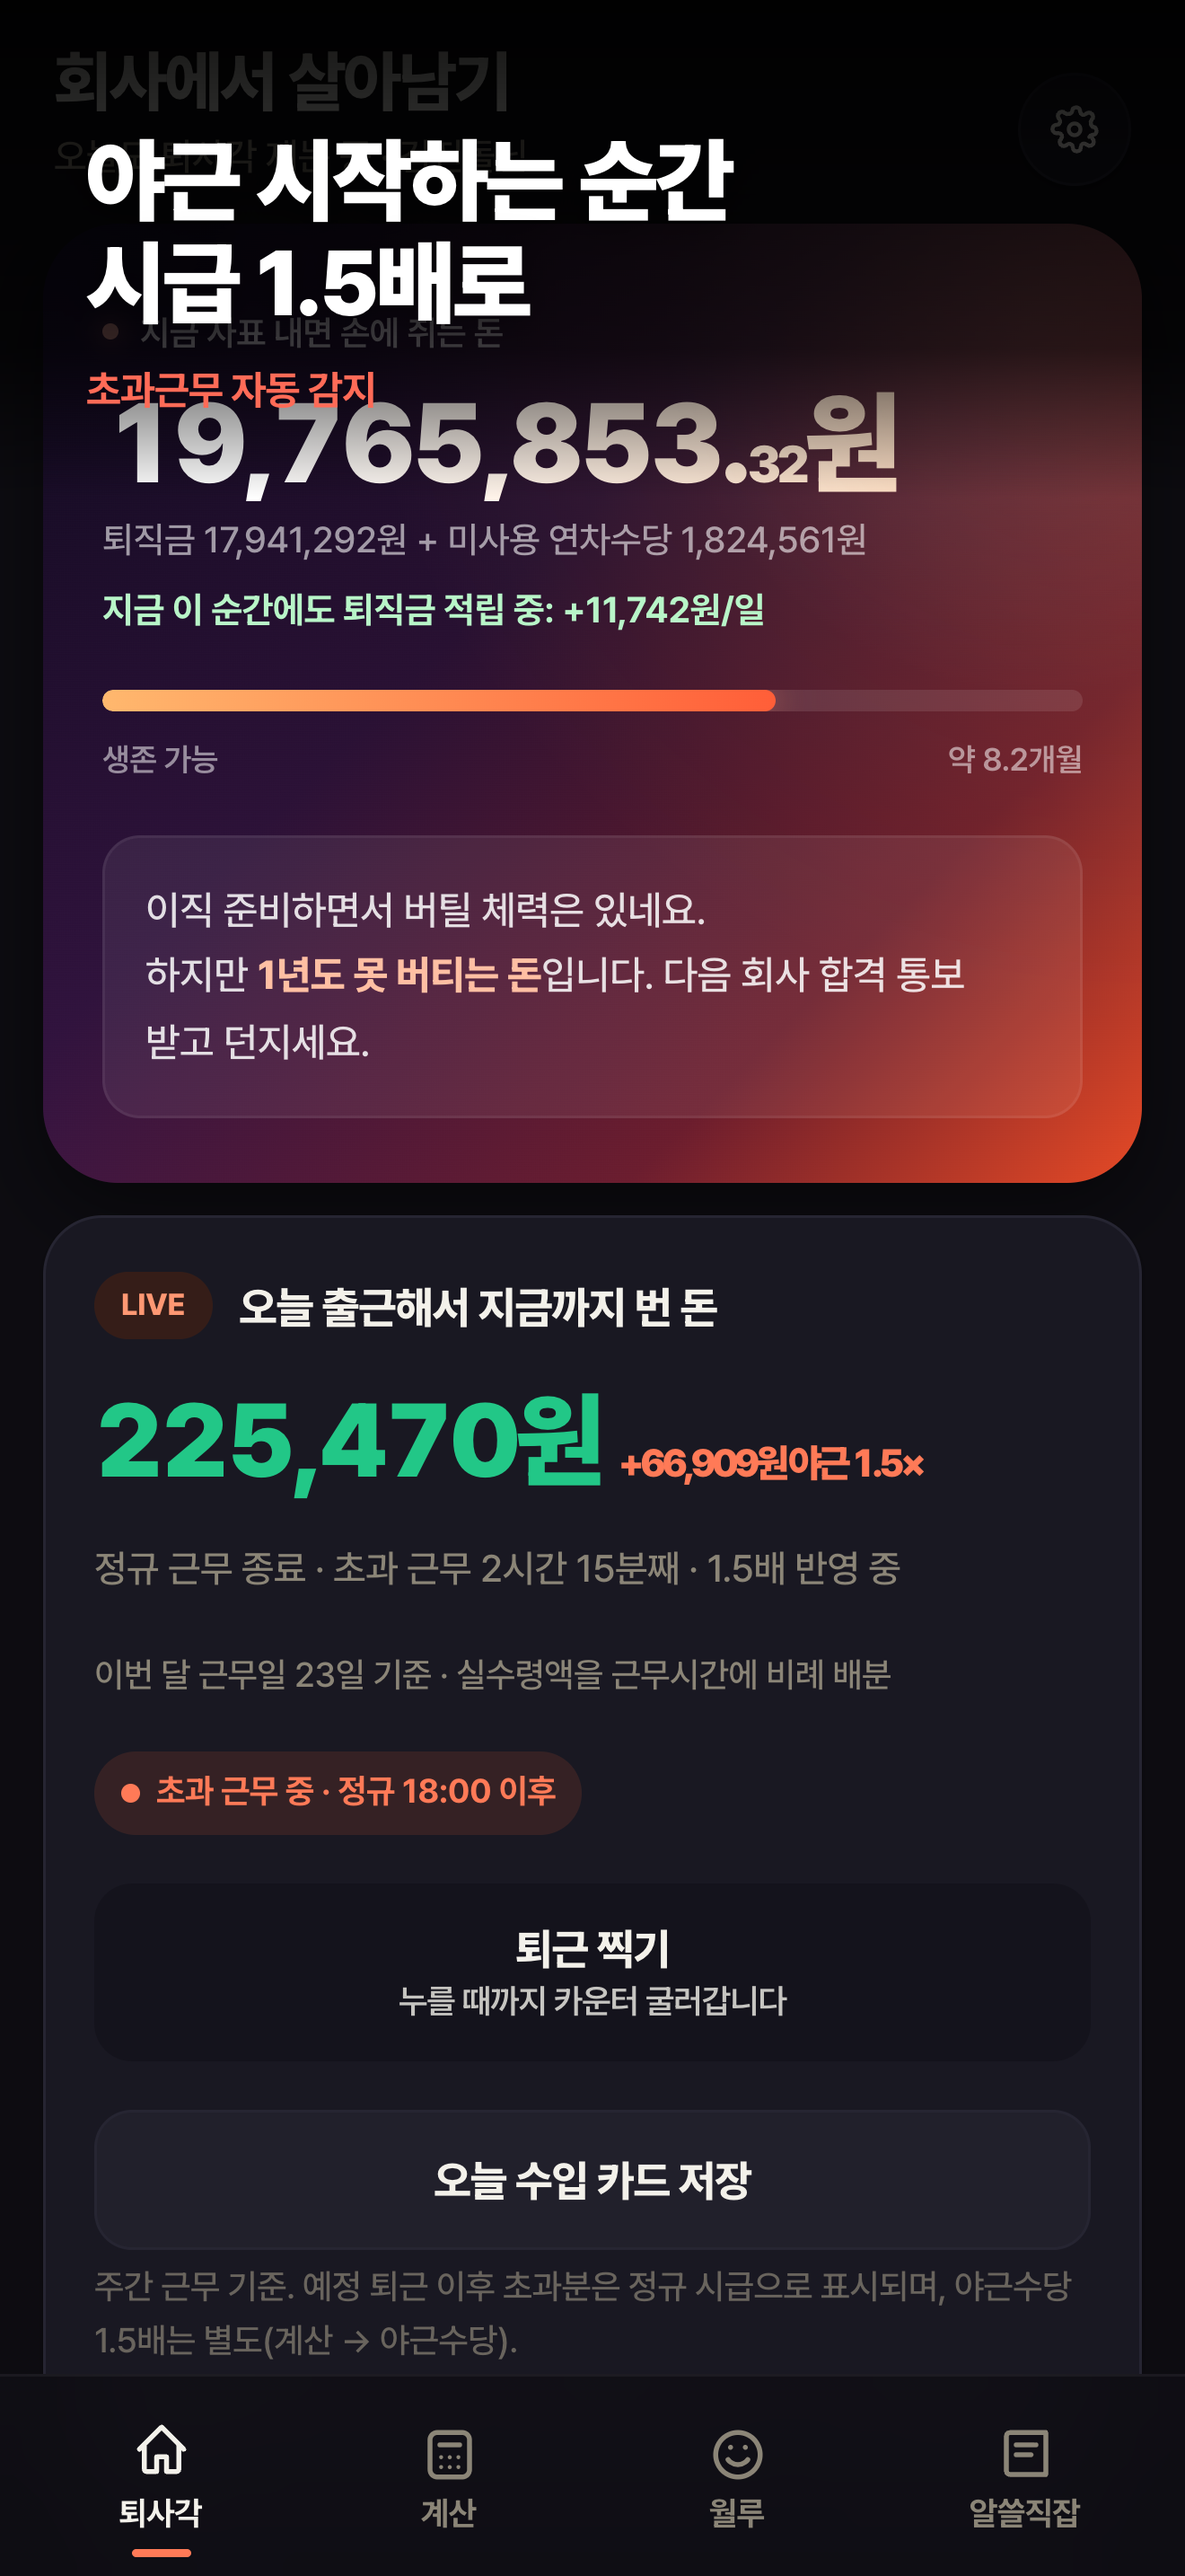
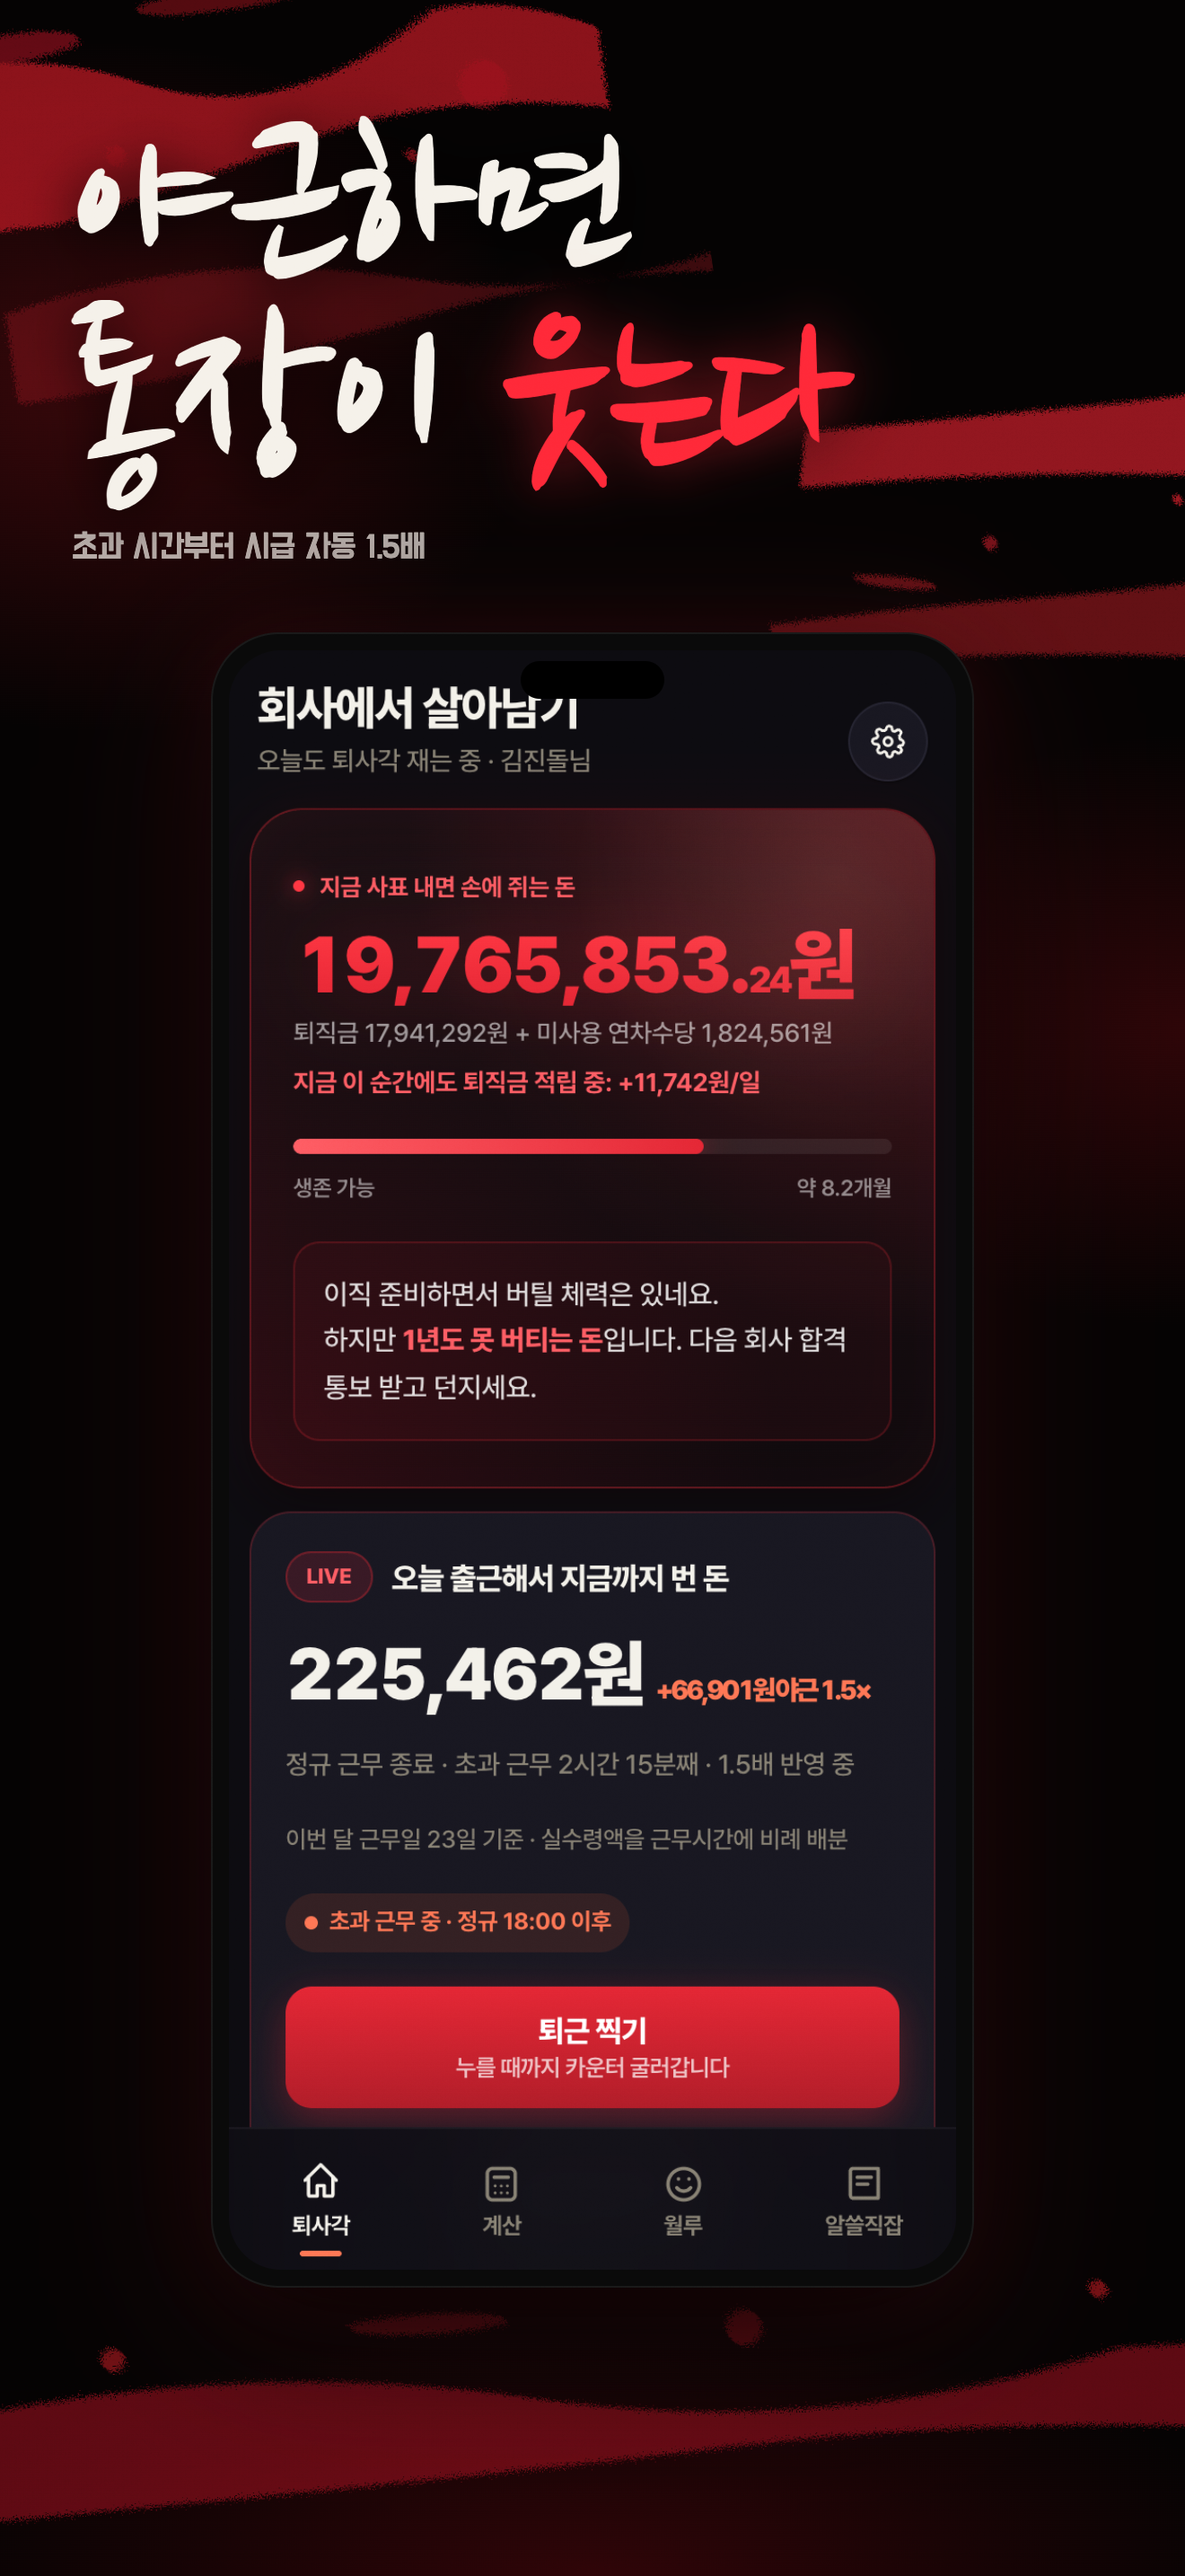
v1.0 build 11: 앱 아이콘 무드로 다크모드 UI/스크린샷 통일
- 다크모드 히어로: 붉은 아웃라인/글로우, 붉은 그라디언트 머니, 붉은 게이지
- LIVE 카드: 붉은 아웃라인, 붉은 LIVE 알약, 흰 머니
- 사표 시뮬 시트: 결과 행 붉은 아이콘 pill, 최종 실탄 붉은 강조 카드, 붉은 border 판결 카드
- 계산기 세그먼트 활성 탭·btn-blue: 다크에서 붉은 CTA로 승격
- 알쓸직잡 D-day pill: 붉은 알약 스타일, 핵심 숫자·law border 붉게
- 퇴근 찍기 버튼: 붉은 필드 CTA
- 앱스토어 스크린샷 6장 재작업: 검정+붉은 브러시 스플래터 배경, Nanum Brush Script 굵은 획, 폰 정면 배치
- 서비스워커 캐시 v16 → v17
- 빌드번호 10 → 11 (App Store Connect 업로드용)

diff --git a/docs/index.html b/docs/index.html
@@ -145,9 +145,9 @@
     --shadow-md: 0 10px 30px rgba(0, 0, 0, .5);
     --shadow-lg: 0 22px 60px rgba(0, 0, 0, .6);
 
-    --hero-bg: linear-gradient(135deg, #0F0A1F 0%, #26102F 40%, #6B1D2A 75%, #E64A26 100%);
-    --hero-glow-1: radial-gradient(circle at 100% 0%, rgba(255, 170, 100, .18) 0%, transparent 55%);
-    --hero-glow-2: radial-gradient(circle at 0% 100%, rgba(120, 40, 160, .16) 0%, transparent 55%);
+    --hero-bg: linear-gradient(180deg, #1A0F13 0%, #0F0A0D 100%);
+    --hero-glow-1: radial-gradient(circle at 100% 0%, rgba(229, 40, 54, .28) 0%, transparent 55%);
+    --hero-glow-2: radial-gradient(circle at 0% 100%, rgba(180, 20, 40, .18) 0%, transparent 55%);
   }
   @media (prefers-color-scheme: dark) {
     html:not(.light) {
@@ -170,9 +170,9 @@
       --shadow-sm: 0 2px 10px rgba(0, 0, 0, .4);
       --shadow-md: 0 10px 30px rgba(0, 0, 0, .5);
       --shadow-lg: 0 22px 60px rgba(0, 0, 0, .6);
-      --hero-bg: linear-gradient(135deg, #0F0A1F 0%, #26102F 40%, #6B1D2A 75%, #E64A26 100%);
-      --hero-glow-1: radial-gradient(circle at 100% 0%, rgba(255, 170, 100, .18) 0%, transparent 55%);
-      --hero-glow-2: radial-gradient(circle at 0% 100%, rgba(120, 40, 160, .16) 0%, transparent 55%);
+      --hero-bg: linear-gradient(180deg, #1A0F13 0%, #0F0A0D 100%);
+      --hero-glow-1: radial-gradient(circle at 100% 0%, rgba(229, 40, 54, .28) 0%, transparent 55%);
+      --hero-glow-2: radial-gradient(circle at 0% 100%, rgba(180, 20, 40, .18) 0%, transparent 55%);
     }
   }
 
@@ -331,6 +331,11 @@
   /* Blue — 계산 CTA (현재 기본 계산 버튼) */
   .btn-blue { background: var(--blue); color: #fff; box-shadow: 0 4px 14px color-mix(in srgb, var(--blue) 30%, transparent); }
   .btn-blue:hover { background: var(--blue-2); }
+  html.dark .btn-blue {
+    background: linear-gradient(180deg, #E52836 0%, #B31E2A 100%);
+    box-shadow: 0 4px 14px rgba(229, 40, 54, .38);
+  }
+  html.dark .btn-blue:hover { background: linear-gradient(180deg, #F03040 0%, #C1222E 100%); }
   .btn-red { background: var(--red); color: #fff; box-shadow: 0 4px 14px color-mix(in srgb, var(--red) 30%, transparent); }
   /* Secondary — 카드 위 서브 액션 */
   .btn-soft { background: var(--card-2); color: var(--text); box-shadow: none; border: 1px solid var(--line); }
@@ -355,6 +360,51 @@
   .result-row.total { border-top: 2px solid var(--text); margin-top: 6px; padding-top: 14px; border-bottom: none; }
   .result-row.total .k { color: var(--text); font-weight: 800; }
   .result-row.total .v { font-size: 1.18rem; font-weight: 900; color: var(--coral); }
+
+  /* 아이콘 pill (사표 시트 결과 행) */
+  .rr-icon {
+    display: inline-flex; align-items: center; justify-content: center;
+    width: 28px; height: 28px; border-radius: 50%;
+    background: rgba(229, 40, 54, .15);
+    margin-right: 8px; font-size: .9rem;
+    vertical-align: middle;
+  }
+  html.dark .rr-icon { background: rgba(229, 40, 54, .22); }
+
+  /* 최종 실탄 강조 카드 (사표 시트) */
+  .result-row.total-hero {
+    background: linear-gradient(180deg, rgba(229, 40, 54, .12) 0%, rgba(229, 40, 54, .05) 100%);
+    border: 1px solid rgba(229, 40, 54, .35);
+    border-top: 1px solid rgba(229, 40, 54, .35);
+    border-radius: 16px;
+    padding: 18px 18px;
+    margin-top: 14px;
+  }
+  .result-row.total-hero .k { font-size: 1rem; }
+  .result-row.total-hero .v {
+    font-size: 1.7rem;
+    color: #FF3844;
+    filter: drop-shadow(0 0 12px rgba(229, 40, 54, .35));
+  }
+  html.dark .result-row.total-hero {
+    background: linear-gradient(180deg, rgba(229, 40, 54, .20) 0%, rgba(229, 40, 54, .08) 100%);
+    border-color: rgba(229, 40, 54, .55);
+  }
+
+  /* 인용 판결 카드 (사표 시트) */
+  .quote-card {
+    margin-top: 14px;
+    padding: 16px 18px;
+    border-left: 3px solid #E52836;
+    background: rgba(229, 40, 54, .06);
+    border-radius: 4px 12px 12px 4px;
+    font-size: .95rem;
+    line-height: 1.7;
+    color: var(--text);
+    word-break: keep-all;
+  }
+  .quote-card b { color: #FF3844; font-weight: 800; }
+  html.dark .quote-card { background: rgba(229, 40, 54, .10); }
   .bignum {
     font-size: 2.2rem; font-weight: 900; letter-spacing: -0.045em;
     font-variant-numeric: tabular-nums; line-height: 1.05;
@@ -433,6 +483,14 @@
     to { transform: translate(-24px, 32px) scale(1.15); }
   }
   .hero > * { position: relative; }
+  /* 다크모드: 아이콘과 통일된 검정 + 붉은 아웃라인 */
+  html.dark .hero {
+    border: 1px solid rgba(229, 40, 54, .35);
+    box-shadow:
+      var(--shadow-md),
+      0 0 30px rgba(229, 40, 54, .08),
+      inset 0 0 40px rgba(229, 40, 54, .04);
+  }
   .hero .cap {
     font-size: .8rem; color: rgba(255, 255, 255, .62);
     font-weight: 600; letter-spacing: -0.01em;
@@ -452,6 +510,31 @@
     -webkit-background-clip: text; background-clip: text;
     color: transparent;
     -webkit-text-fill-color: transparent;
+  }
+  html.dark .hero .money {
+    background: linear-gradient(180deg, #FF3844 0%, #E52836 100%);
+    -webkit-background-clip: text; background-clip: text;
+    filter: drop-shadow(0 0 24px rgba(255, 56, 68, .35));
+  }
+  html.dark .hero .cap::before {
+    background: #FF3844;
+    box-shadow: 0 0 12px rgba(255, 56, 68, .9);
+  }
+  html.dark .hero .cap { color: #FF6067; font-weight: 700; }
+  html.dark .hero .verdict {
+    background: rgba(229, 40, 54, .06);
+    border: 1px solid rgba(229, 40, 54, .22);
+  }
+  html.dark .hero .verdict b { color: #FF6067; }
+  html.dark .gauge { background: rgba(255, 255, 255, .08); }
+  html.dark .gauge .fill {
+    background: linear-gradient(90deg, #FF6067 0%, #E52836 100%);
+    box-shadow: 0 0 14px rgba(229, 40, 54, .55);
+  }
+  #h-live { color: #B8F5C8; }
+  html.dark #h-live { color: #FF6067; }
+  @media (prefers-color-scheme: dark) {
+    html:not(.light) #h-live { color: #FF6067; }
   }
   .hero .sub {
     font-size: .84rem; color: rgba(255, 255, 255, .58);
@@ -542,6 +625,11 @@
     background: var(--card); color: var(--text);
     box-shadow: var(--shadow-xs);
   }
+  html.dark .seg button.on {
+    background: linear-gradient(180deg, #E52836 0%, #B31E2A 100%);
+    color: #fff;
+    box-shadow: 0 4px 14px rgba(229, 40, 54, .35);
+  }
   .calc-panel { display: none; }
   .calc-panel.on { display: block; animation: fade-up .22s var(--ease); }
 
@@ -553,6 +641,12 @@
     background: radial-gradient(circle, color-mix(in srgb, var(--green) 12%, transparent) 0%, transparent 70%);
     pointer-events: none;
   }
+  html.dark #live-card {
+    border: 1px solid rgba(229, 40, 54, .22);
+  }
+  html.dark #live-card::before {
+    background: radial-gradient(circle, rgba(229, 40, 54, .18) 0%, transparent 70%);
+  }
   .live-head {
     display: flex; align-items: center; gap: 10px; flex-wrap: wrap;
   }
@@ -561,6 +655,12 @@
     font-size: 2.4rem; font-weight: 900; color: var(--green);
     font-variant-numeric: tabular-nums; letter-spacing: -0.045em;
     line-height: 1.02;
+  }
+  html.dark .live-money { color: #F3F1EA; }
+  html.dark #live-card .chip {
+    background: rgba(229, 40, 54, .16);
+    color: #FF6067;
+    border: 1px solid rgba(229, 40, 54, .32);
   }
   .equiv { font-size: .88rem; color: var(--sub); min-height: 1.4em; font-weight: 500; }
   .punch-status {
@@ -590,6 +690,13 @@
     background: color-mix(in srgb, var(--red) 12%, var(--inp-bg));
     border-color: var(--red); color: var(--red);
   }
+  html.dark .btn-punch {
+    background: linear-gradient(180deg, #E52836 0%, #B31E2A 100%);
+    color: #fff;
+    box-shadow: 0 6px 20px rgba(229, 40, 54, .35);
+    border: none;
+  }
+  html.dark .btn-punch .punch-time { opacity: .85; color: rgba(255,255,255,.85); }
   .punch-label { font-size: 1rem; font-weight: 800; }
   .punch-time { font-size: .78rem; font-weight: 600; opacity: .8; font-variant-numeric: tabular-nums; }
   .roulette-result {
@@ -632,6 +739,16 @@
   .dday:last-child { border-bottom: none; }
   .dday .dl { font-weight: 700; font-size: .93rem; letter-spacing: -0.01em; }
   .dday .dv { font-weight: 900; color: var(--coral); font-size: 1.05rem; font-variant-numeric: tabular-nums; }
+  html.dark .dday .dv {
+    color: #FF3844;
+    background: rgba(229, 40, 54, .15);
+    padding: 4px 12px; border-radius: 999px;
+    border: 1px solid rgba(229, 40, 54, .35);
+    font-size: .95rem;
+  }
+  html.dark .law { border-left-color: #E52836; }
+  html.dark .law .lt { color: #FF6067; }
+  html.dark .info-cell .n { color: #FF6067; }
 
   /* ═══════════ 로그인 ═══════════ */
   #login {
@@ -938,7 +1055,7 @@
       <div class="cap">지금 사표 내면 손에 쥐는 돈</div>
       <div class="money" id="h-total">— 원</div>
       <div class="sub" id="h-breakdown">프로필을 입력하면 계산해드려요</div>
-      <div class="sub" id="h-live" style="margin-top:6px; color:#B8F5C8; font-weight:700"></div>
+      <div class="sub" id="h-live" style="margin-top:6px; font-weight:700"></div>
       <div class="gauge"><div class="fill" id="h-gauge"></div></div>
       <div class="gauge-label"><span>생존 가능</span><span id="h-months">0개월</span></div>
       <div class="verdict" id="h-verdict">아래에 연봉과 입사일을 넣어보세요.<br>냉정하게 계산해드립니다.</div>
@@ -1734,13 +1851,13 @@ $('btn-quit').addEventListener('click', () => {
   const ue = Calc.unemployment({ age, insuredMonths: Math.floor(sev.serviceDays / 30.4), avgMonthlyWage: p.salaryMan * MAN / 12 });
   lastReport = { sev, leavePay, total, months, ue, leaveDays: p.leaveDays || 0 };
   $('md-body').innerHTML = `
-    <div class="result-row"><span class="k">퇴직금 (예상)</span><span class="v">${won(sev.amount)}</span></div>
-    <div class="result-row"><span class="k">미사용 연차수당 ${p.leaveDays || 0}일</span><span class="v">${won(leavePay)}</span></div>
-    <div class="result-row"><span class="k">실업급여</span><span class="v"><span class="strike">${won(ue.total)}</span> → 0원</span></div>
+    <div class="result-row"><span class="k"><span class="rr-icon">💰</span>퇴직금 (예상)</span><span class="v">${won(sev.amount)}</span></div>
+    <div class="result-row"><span class="k"><span class="rr-icon">🌴</span>미사용 연차수당 ${p.leaveDays || 0}일</span><span class="v">${won(leavePay)}</span></div>
+    <div class="result-row"><span class="k"><span class="rr-icon">🚫</span>실업급여</span><span class="v"><span class="strike">${won(ue.total)}</span> → 0원</span></div>
     <p class="hint" style="margin:8px 0 0">자발적 퇴사는 실업급여가 <b>없습니다.</b> 회사가 잘라줘야 받는 돈이에요. 얄궂죠.${p.birthYear ? '' : ' (내 정보에 출생연도를 넣으면 나이 기준 지급일수까지 정확해져요.)'}</p>
-    <div class="result-row total"><span class="k">최종 실탄</span><span class="v" id="md-total">${won(0)}</span></div>
+    <div class="result-row total total-hero"><span class="k">최종 실탄</span><span class="v" id="md-total">${won(0)}</span></div>
     <div class="result-row"><span class="k">생존 가능 기간</span><span class="v">${months >= 1 ? '약 ' + months.toFixed(1) + '개월' : '1개월 미만'}</span></div>
-    <p style="margin-top:14px; font-size:.95rem; line-height:1.65">${verdictText(months, sev.eligible)}</p>`;
+    <div class="quote-card">${verdictText(months, sev.eligible)}</div>`;
   shakeScreen();
   $('modal').classList.add('on');
   // 모달 진입 애니메이션 이후 컨페티 + 숫자 스핀 + 성공 햅틱

diff --git a/docs/sw.js b/docs/sw.js
@@ -1,5 +1,5 @@
 /* 회사에서 살아남기 서비스워커 — 오프라인 지원 */
-const CACHE = 'toesagak-v16';
+const CACHE = 'toesagak-v17';
 const ASSETS = ['./', './index.html', './calc.js', './manifest.json', './icon-192.png', './icon-512.png', './fonts/PretendardVariable.woff2', './privacy.html'];
 
 self.addEventListener('install', (e) => {
